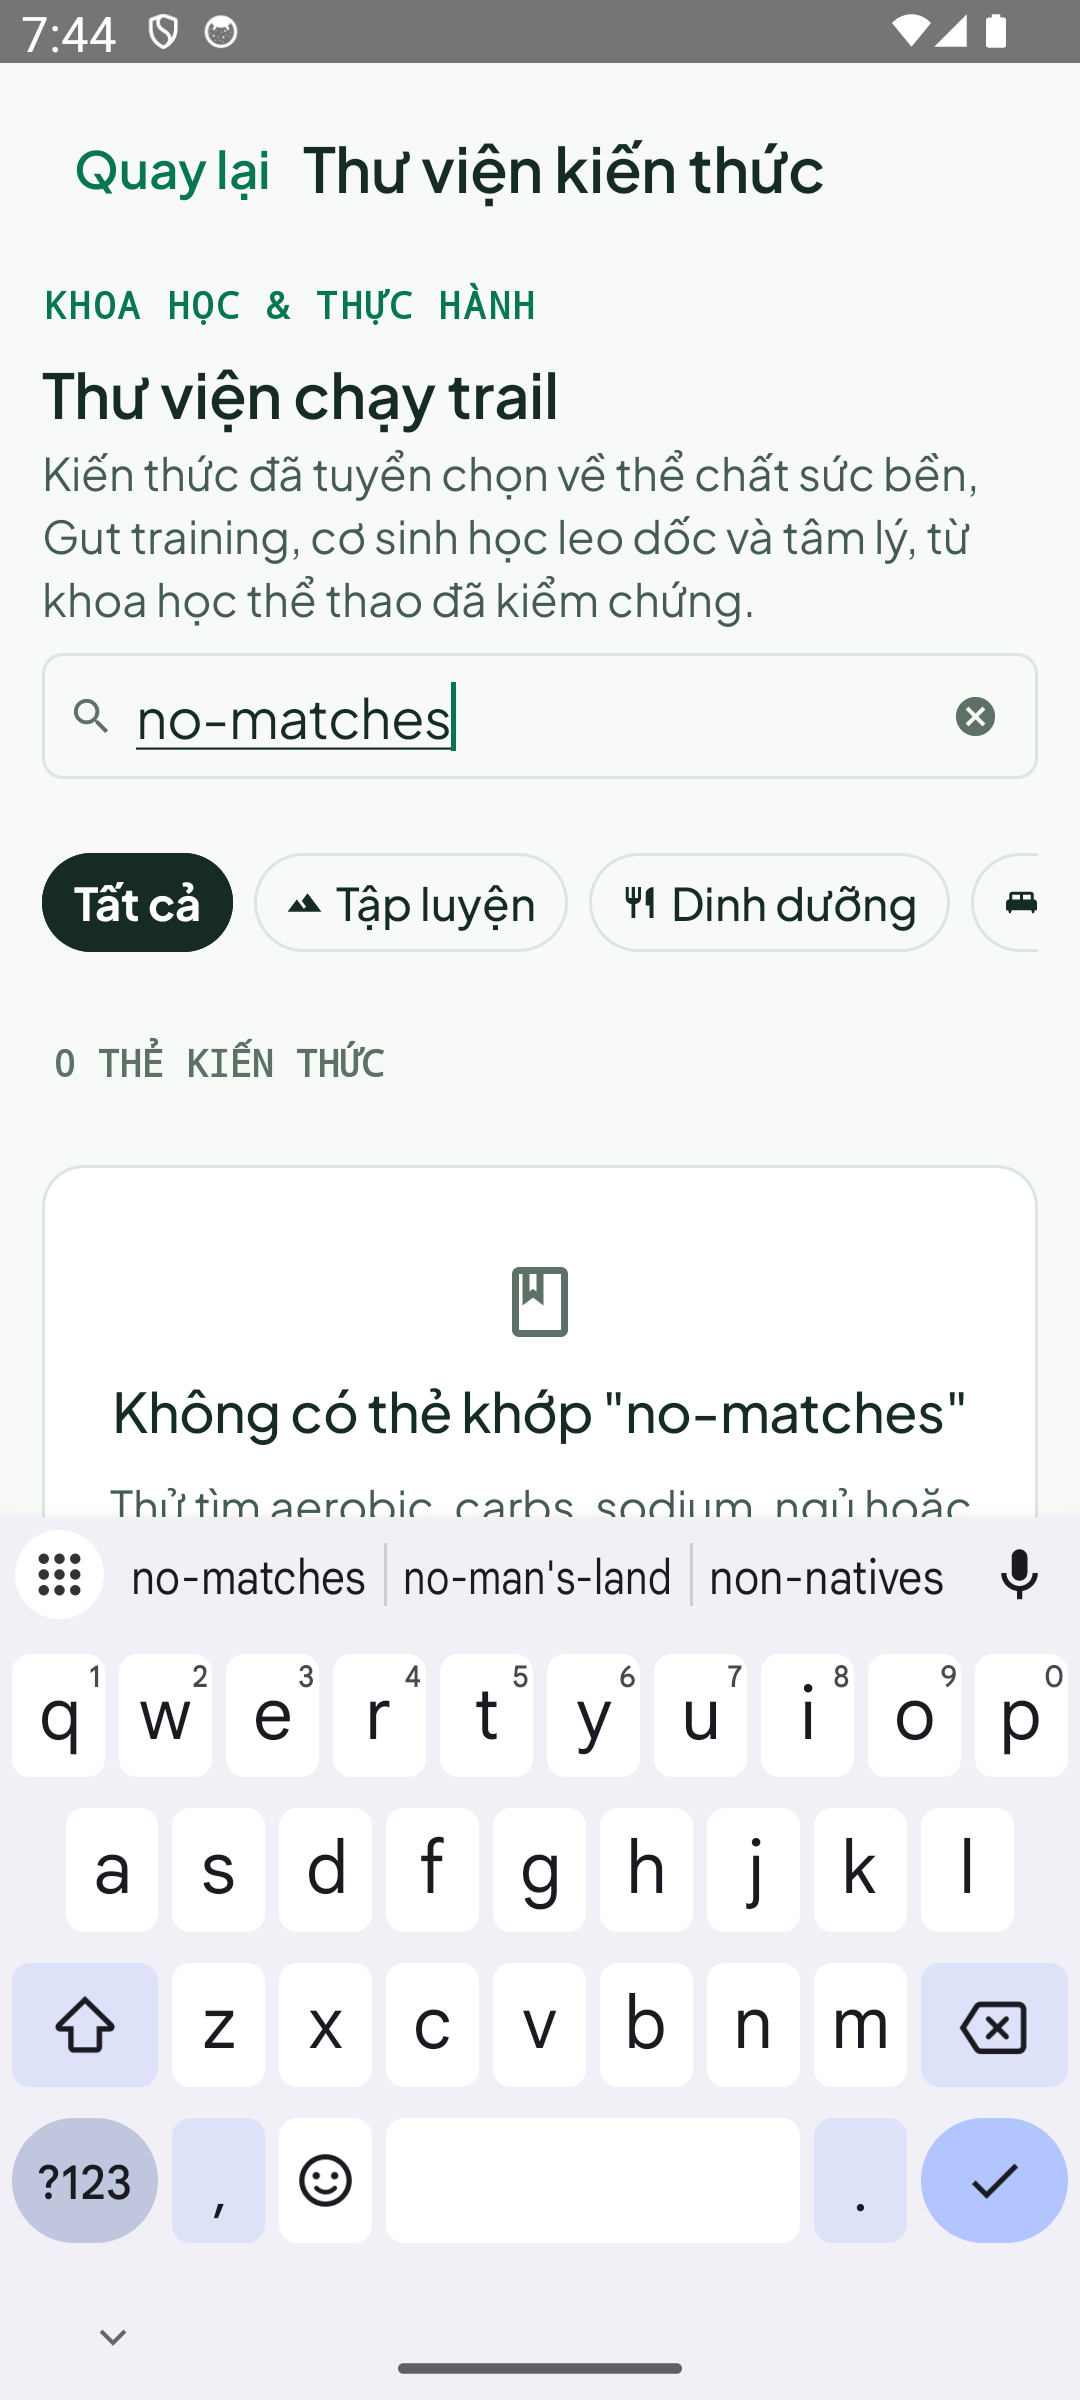
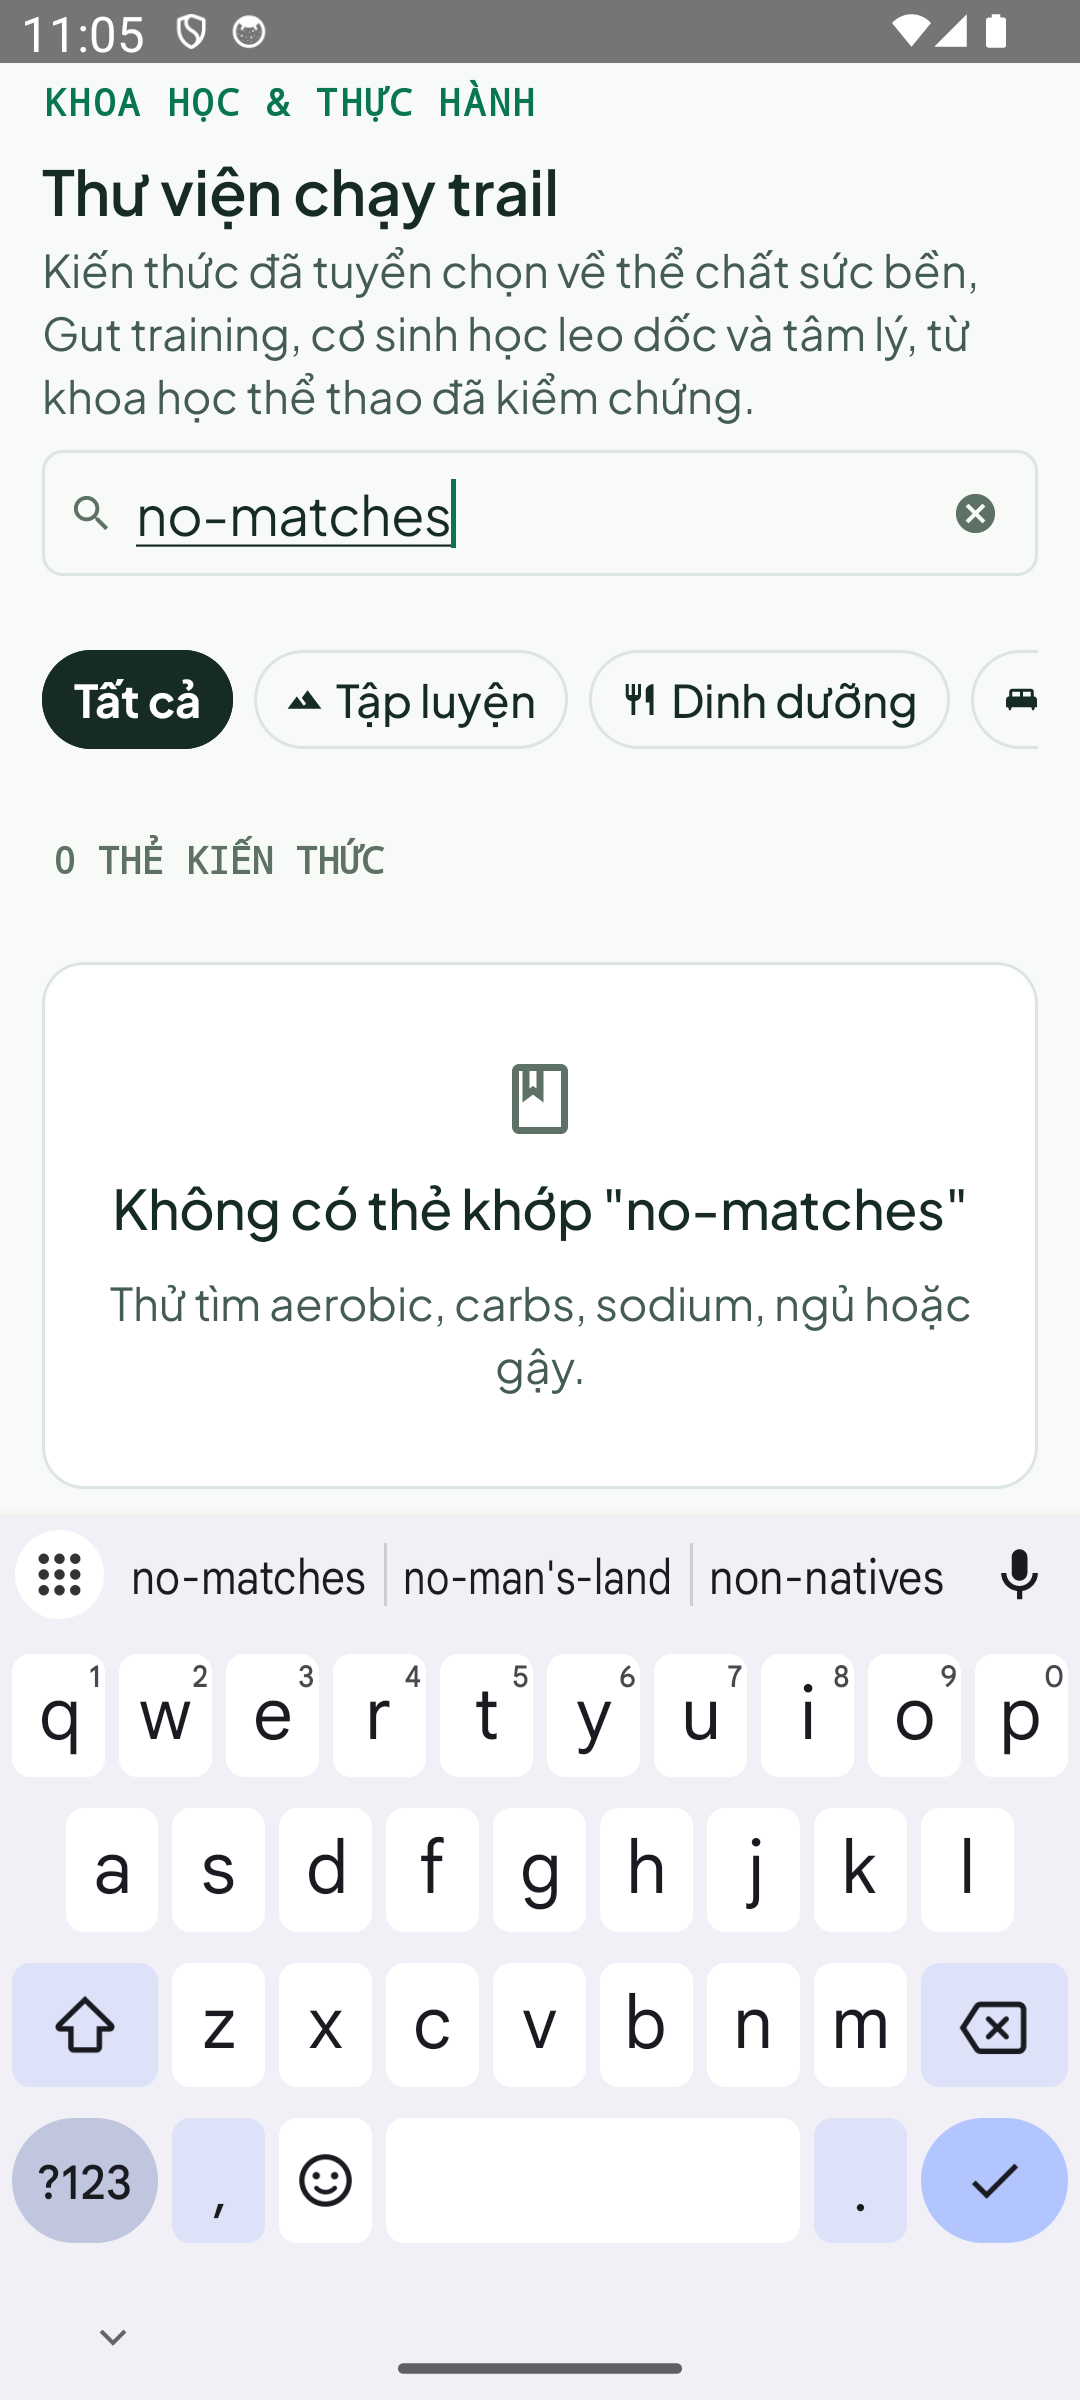
Keep Knowledge content above the keyboard and lighten launch loading

diff --git a/android-native/app/src/androidTest/java/ai/uphill/app/NativeFlowTest.kt b/android-native/app/src/androidTest/java/ai/uphill/app/NativeFlowTest.kt
@@ -868,13 +868,14 @@ class NativeFlowTest {
         waitText("Fueling on long runs")
         captureFixtureScreenshot("knowledge-library-$lang")
         val search = ui.onNodeWithTag("knowledge.search")
-        search.performTextInput("SoDiUm")
+        search.performClick().performTextInput("SoDiUm")
         ui.onNodeWithText("Fueling on long runs").assertExists()
         ui.onNodeWithText("Aerobic base").assertDoesNotExist()
         ui.onNodeWithText("Check your sodium budget.").assertDoesNotExist()
         ui.onNodeWithText("Fueling on long runs").performClick()
         ui.onNodeWithText("Check your sodium budget.").assertExists()
-        ui.onNodeWithText("#electrolytes").performScrollTo().assertIsDisplayed()
+        ui.onNodeWithText("#electrolytes", useUnmergedTree = true).performScrollTo().assertIsDisplayed()
+        assertAboveKeyboard("#electrolytes")
         captureFixtureScreenshot("knowledge-expanded-$lang")
         ui.onNodeWithText("Fueling on long runs").performClick()
         ui.onNodeWithText("Check your sodium budget.").assertDoesNotExist()
@@ -882,7 +883,10 @@ class NativeFlowTest {
         captureFixtureScreenshot("knowledge-keypoint-search-$lang")
         search.performTextReplacement("no-matches")
         waitText(ai.uphill.app.core.localization.localizedText(localizedContext, "No cards matching \"%@\"", "no-matches"))
-        ui.onNodeWithTag("knowledge.empty").performScrollTo()
+        val emptyHint = ai.uphill.app.core.localization.localizedText(localizedContext,
+            "Try searching for terms like aerobic, carbs, sodium, sleep, or poles.")
+        ui.onNodeWithText(emptyHint, useUnmergedTree = true).performScrollTo()
+        assertAboveKeyboard(emptyHint)
         captureFixtureScreenshot("knowledge-empty-$lang")
         search.performTextReplacement("   ")
         ui.onAllNodesWithText("Fueling on long runs").assertCountEquals(1)
@@ -1023,6 +1027,26 @@ class NativeFlowTest {
         assertFalse(cleared)
         assertNull(session.restoreError.value)
         assertEquals(2, attempts.get())
+    }
+
+    private fun assertAboveKeyboard(text: String) {
+        val visible = android.graphics.Rect()
+        ui.waitUntil(5000) {
+            var keyboardVisible = false
+            InstrumentationRegistry.getInstrumentation().runOnMainSync {
+                val activity = androidx.test.runner.lifecycle.ActivityLifecycleMonitorRegistry.getInstance()
+                    .getActivitiesInStage(androidx.test.runner.lifecycle.Stage.RESUMED).first()
+                val view = activity.window.decorView
+                view.getWindowVisibleDisplayFrame(visible)
+                keyboardVisible = androidx.core.view.ViewCompat.getRootWindowInsets(view)
+                    ?.isVisible(androidx.core.view.WindowInsetsCompat.Type.ime()) == true
+            }
+            keyboardVisible
+        }
+        ui.waitForIdle()
+        val bounds = ui.onNodeWithText(text, useUnmergedTree = true).fetchSemanticsNode().boundsInWindow
+        assertTrue("Text bottom ${bounds.bottom} exceeds keyboard top ${visible.bottom}",
+            bounds.bottom <= visible.bottom)
     }
 
     private fun captureFixtureScreenshot(name: String) {

diff --git a/android-native/app/src/main/java/ai/uphill/app/feature/launch/LaunchScreen.kt b/android-native/app/src/main/java/ai/uphill/app/feature/launch/LaunchScreen.kt
@@ -78,6 +78,7 @@ fun LaunchScreen(error: String? = null, onRetry: () -> Unit = {}) {
             factory = {
                 PlayerView(it).apply {
                     this.player = player
+                    setShutterBackgroundColor(UH.surface.toArgb())
                     useController = false
                     resizeMode = AspectRatioFrameLayout.RESIZE_MODE_ZOOM
                 }

diff --git a/android-native/docs/PARITY.md b/android-native/docs/PARITY.md
@@ -7,7 +7,7 @@ service or a passing fixture test does not establish matching layout or animatio
 
 | Area | Android implementation / evidence | Remaining parity work |
 | --- | --- | --- |
-| Auth, launch, shell | Email/register, Credential Manager, secure session restore, video launch, Plan/Coach/Me/Athletes routing; sign-in and nested-tab evidence | Live signed-release Google round trip passed; transient restore errors now keep the token and offer localized retry; compare launch/video timing, dark-frame error contrast and remaining auth/error states |
+| Auth, launch, shell | Email/register, Credential Manager, secure session restore, video launch, Plan/Coach/Me/Athletes routing; sign-in and nested-tab evidence | Live signed-release Google round trip passed; transient restore errors now keep the token and offer localized retry; loading shutter now matches the surface color; compare the full video loop and remaining auth/error states |
 | Onboarding and generation | Four source-based goal cards, guidance, Back/Close/progress, bounded UTC-day date pickers, persisted job polling and generation; Road/Close/date-window tests | Compare all EN/VI steps and failure/resume states with iOS; inspect newer iOS setup changes |
 | Plan summary and day list | Carousel, weeks, goal pill, coach review, sharpen checklist, workout actions; EN/VI normal/large-text captures | Compare all chart/data variants, row types, transitions and empty/offline states |
 | Workout detail | Metrics, execution timeline, treadmill ranges, reasons/warnings, feeling/log confirmation, scoped coach actions/notes | Pace range formatting and font1.3 rendering check pass; remaining type/interval/rest/coach variants need evidence |
@@ -19,14 +19,18 @@ service or a passing fixture test does not establish matching layout or animatio
 | Gear | Recommendation packshots, preferences, rotation assignment/edit/mileage/retire, debounced saves; neutral empty slots and wear colors tested/captured | Compare recommendation/rotation/detail layouts and latest iOS rotation changes |
 | Nutrition | Fueling preferences, catalog/results and feedback | Result-state composition and product/copy comparison |
 | Pace | GPX picker/parser, course profile, splits/checkpoints, debounced calculation, target handoff; real Downloads picker EN/VI checks, source course card and locked GPX fields | Source-based GPX target initialization and edited-target preservation through interval changes verified; result/chart/table, defaults and automatic recalculation comparison remains |
-| Knowledge | Source header/search, daily widget, topic pills/count, full-card expansion/tags, empty state and source accordion; EN/VI key-point, retry and role checks | Larger-text expanded/empty search content can extend beneath the open keyboard; broader loading/focus/TalkBack states remain |
+| Knowledge | Source header/search, daily widget, topic pills/count, full-card expansion/tags, empty state and source accordion; EN/VI key-point, retry and role checks | Larger-text expanded/empty content now verifies above the keyboard in EN/VI; broader loading/focus/TalkBack states remain |
 | Race history | Search/claims/bib verification, manual results/edit/delete, detail/PBs/badges; fixture/UI tests | Compare every link/claim/detail/course state against iOS |
 | Coaching | Roster/invites, overview/actions, athlete physiology/provenance, scoped plan/actions/notes; live backend flow | Adherence chart, seven-day bars, workout mix, Overview/Roster sections, 7/14/30-day and Elite filters, roster search ported and tested. Inline invite, action counts, roster progress, race-to-roster search and separate Profile sheet ported, tested and visually confirmed. Remaining state/motion comparison pending |
 | COROS | Custom Tab callback/state, sync/push/status, foreground sync and manual matching | Existing live COROS sync passed; fresh OAuth/push and cancellation/error flows unverified; Health import excluded |
 | Accessibility/motion/fonts | Font1.3 and zero-animation captures, shared tokens, variable Plus Jakarta Sans body/launch and platform mono | TalkBack and all focus/error states; full motion audit; user-chosen body font differs from iOS system face; platform mono differs by device |
 | Release | Matching certificate/code10, earlier emulator upgrade preservation, minified signed-out smoke, earlier CI green at842a7c0; dea06bb test-lint error fixed locally, fresh signed build verified | Signed minified Google sign-in and existing COROS sync passed; physical phone upgrade, fresh COROS OAuth and all remaining release flows unverified |
 
-Current verified batch includes Coach Hub/Profile confirmation, onboarding goal/navigation/date
+Broad baseline39dfca4 includes Coach Hub/Profile confirmation, onboarding goal/navigation/date
 controls and rotation placeholders. Lint, 93 debug +93 release JVM tests and 35 instrumentation
 tests pass across isolated runs; 126 fixture screenshots are confirmed. Latest signed release builds and verifies; controlled app restart, APK replacement and full emulator reboot all restore the
 authenticated shell after a fresh Google login. See HANDOFF.md. Full feature/layout/font-rendering/motion parity is not established.
+
+The subsequent window/shutter fix passes four focused EN/VI device flows with
+font1.3 and zero animation; only affected evidence was inspected/refreshed. The full
+simulator matrix and live-account checks were not repeated for this change.

diff --git a/android-native/docs/HANDOFF.md b/android-native/docs/HANDOFF.md
@@ -158,20 +158,35 @@ remain platform-specific. This is the user's body-face choice, not an exact matc
 iOS's system body face. System mono glyphs can also vary by Android device.
[1 lines of base64/hex data omitted]
 
-The bounded Knowledge confirmation leaves one visible limitation: at font1.3, an
-expanded search result or empty card can extend beneath the open keyboard. Source
-error/retry messages are visible after scrolling. The fixture tests validate the
-expansion state and actions, not complete visibility of every expanded line. The manifest currently omits adjustResize, which Android
-[documents as necessary for IME insets](https://developer.android.com/develop/ui/compose/system/setup-e2e).
-Confirm actual-activity and test-host sizing before changing it. Follow
-up on keyboard/focus behavior in the remaining accessibility/state audit; do not
-claim full keyboard/TalkBack parity from these captures.
-One normal launch retry capture also caught a dark video frame with weak text
-contrast; launch overlay/video readiness needs a separate state check before release.
-The bundled Media3 PlayerView layout uses a black exo_shutter by default; investigate
-using the app surface color while the first frame loads.
+## Focused keyboard and launch hardening
+
+MainActivity now uses `adjustResize`; the debug Compose test activity uses the same
+window policy. Existing safeDrawingPadding and scroll containers can then respond to
+the keyboard. A larger-text VI regression reproduced expanded text bottom1720px
+below keyboard top1517px before the fix (`/tmp/uphill-keyboard-before2.log`).
+The regression now checks actual text bounds against the keyboard-visible window,
+including the empty-search guidance. Search explicitly opens the keyboard before it.
+
+Media3 PlayerView's default black loading shutter now uses UH.surface, matching the
+launch background while the first video frame loads. This addresses the observed
+dark loading frame; the complete video loop/other devices remain unverified.
+
+**Latest focused verification:** four EN/VI Knowledge and session-retry flows passed
+at font1.3 with animations disabled in43.204s (`/tmp/uphill-keyboard-focused.log`).
+Two affected-state screenshots were inspected in one batch; six existing accessible
+captures were refreshed. Settings restored;5554 closed before release packaging.
+No full simulator matrix or new live-account run was repeated for this small change.
+
+**User workflow preference:** continue with Ponytail and Impeccable, minimizing
+simulator/screenshot token use. Compare source first, use targeted regressions and a
+small changed-state evidence batch; reuse unchanged captures. No repeated full sweeps.
 
 ## Verification and artifact freshness
+
+The broad baseline below is font checkpoint `39dfca4` (all three CI jobs green).
+The subsequent keyboard/shutter change uses the focused checks above. Release lint
+and release unit tests are also run by the packaging script.
+
 
 - **Lint, all 93 debug and 93 release JVM tests passed.** Converter four tests passed; catalog has
   1,469 EN/VI entries. `git diff --check` passed.
@@ -191,15 +206,18 @@ using the app surface color while the first frame loads.
 - The CI lint error was a test reading configuration through LocalContext. It now
   reads LocalConfiguration; local lint passes. The fixed Profile header also required
   removing an obsolete scroll action from the screenshot helper.
-- The latest signed/minified release includes Knowledge presentation and the requested
-  variable body font. Certificate/package/version are checked by the release script;
+- The latest signed/minified release includes Knowledge presentation, the requested
+  variable body font and keyboard/shutter hardening. Certificate/package/version are checked by the release script;
   `/Users/vietvo/Desktop/Uphill-AI-2.0.0.apk` is refreshed after the font confirmation.
-  Release build passed in2m12s: `/tmp/uphill-font-published-release.log`. The font OFL notice is
+  Font checkpoint release passed in2m12s: `/tmp/uphill-font-published-release.log`.
+  Latest hardening release passed in1m18s: `/tmp/uphill-keyboard-release.log`. The font OFL notice is
   packaged as an asset so resource shrinking retains it. Preserve5556's data when
   installing over it; only the static authenticated-shell result is recorded.
-  Install-over and explicit cold activity launch on5556 restored the authenticated
+  At font checkpoint39dfca4, install-over and explicit cold launch on5556 restored the authenticated
   shell. The monkey shortcut returned251; explicit `am start -W` succeeded in871ms.
   No account data was cleared or production screenshot saved.
+  The keyboard/shutter APK is refreshed on Desktop but is not reinstalled on5556;
+  the change does not touch session storage or networking.
 - The first cold boot opened signed out for an unknown reason. After a fresh Google
   login on the latest APK, controlled force-stop/relaunch, matching-signed APK
   replacement/relaunch and full emulator reboot all restored the authenticated

diff --git a/android-native/docs/screenshots/parity-2026-10-15/README.md b/android-native/docs/screenshots/parity-2026-10-15/README.md
@@ -66,14 +66,19 @@ The photo-heavy launch video captures are exported as quality95 JPEG at the orig
 Knowledge captures include full-card expansion/tags, empty search, source503 retry,
 success and a reader-only attribution list. Admin-only ingestion matches backend
 authorization. Normal and larger-text captures use the same Surface/inset wrapper
-as MainActivity. At font1.3, expanded/empty search content can still extend beneath
-the open keyboard; tests establish the state transition, not full-line visibility.
-This remains an accessibility/state follow-up.
+as MainActivity. The focused window-sizing fix now verifies expanded tags and empty-search guidance
+above the open keyboard at font1.3 in EN/VI.
 
 The latest captures use the user-selected Plus Jakarta Sans variable body face
 (weights200–800), including chart and calendar labels. System mono remains explicit.
 
 Font confirmation passed after constraining the search hint to one line with an
 ellipsis. Logs: `/tmp/uphill-font-confirm-{normal,accessible}-{NativeFlowTest,VisualEvidenceTest}.log`.
-The normal launch retry evidence caught a dark loading frame; video-shutter/overlay
-contrast remains an open state check alongside the keyboard issue above.
+The original normal launch retry evidence caught a dark loading frame. The loading
+shutter now matches the app surface; the updated accessible retry capture is readable.
+The full video loop and other devices remain outside this focused check.
+
+Latest focused update: six accessible expansion/empty/retry captures reflect the
+keyboard/shutter fix. Unchanged captures, including normal/, remain font baseline
+39dfca4. Four targeted flows passed in43.204s (`/tmp/uphill-keyboard-focused.log`);
+only the expanded-card and retry captures were inspected in this pass.
